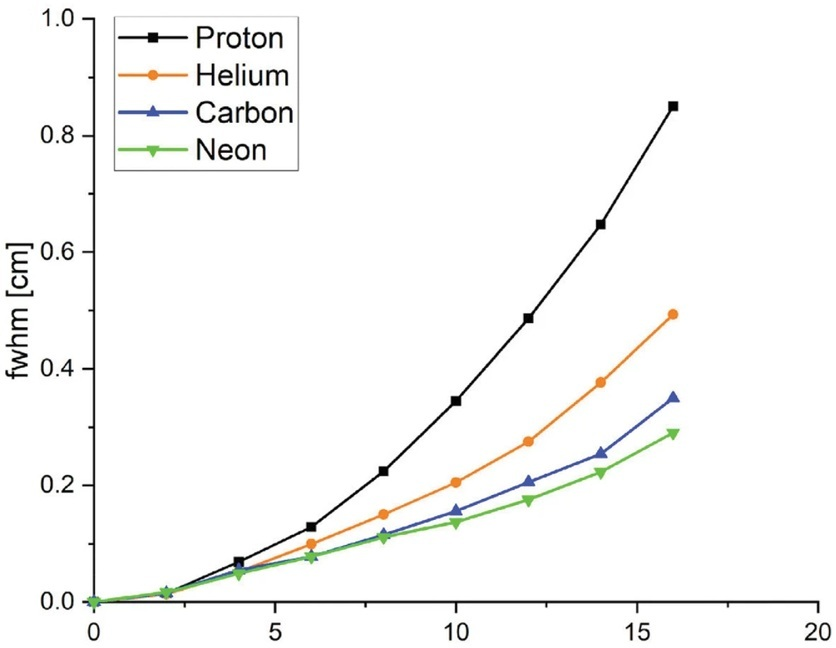
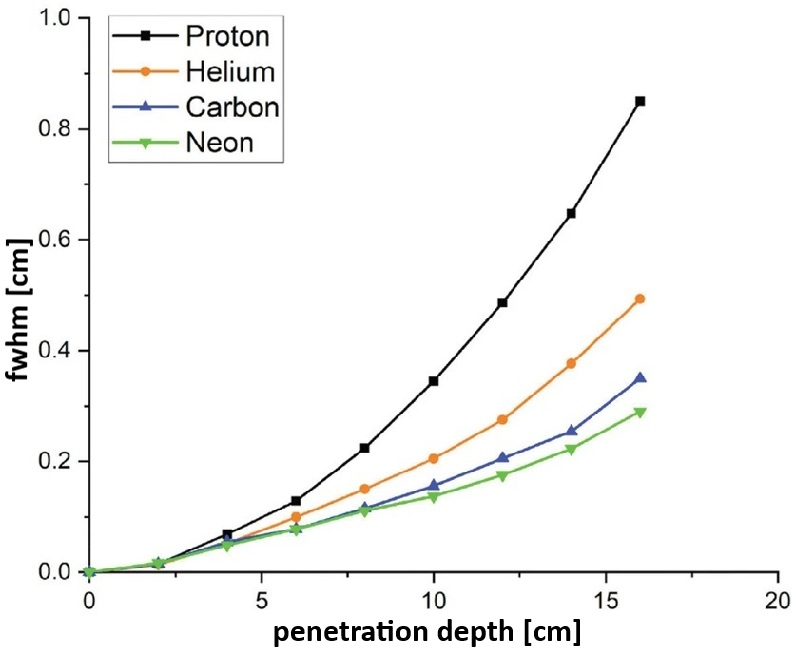
Update after Roberto Spighi revision

diff --git a/Dissertation/Chapters/Chapter 1/chapter_1.tex b/Dissertation/Chapters/Chapter 1/chapter_1.tex
@@ -1,7 +1,7 @@
 \chapter{Interactions of charged particles with matter}\label{ch:interaction_charged_particles}
 The clinical methods and the research studies developed in Particle Therapy (PT, or hadrontherapy) and Space Radiation Protection (SRP) strongly depend on deterministic codes and Monte Carlo simulations, whose aim is to emulate the physics processes characterizing such applications. To comprehensively model the phenomena underlying PT and SRP, including the biological effects produced by ionizing radiation, scientists have implemented algorithms based on the physics principles of particle interaction. Thus, the aim of this chapter is to outline the relevant interaction mechanisms between charged particles and matter, emphasizing the physics and biologic processes that dominate the PT and SRP energy ranges.
 
-Before delving into the details of charged particles interactions with matter, it is important to recall that at the energy ranges of PT ($100$--$800\,\mathrm{MeV/u}$) and of SRP ($100$--$400\,\mathrm{MeV/u}$) charged particles are moderately relativistic. Indeed, for a charged particle with kinetic energy $E_\text{kin}$, total energy $E_\text{tot}$, mass $m$ and momentum $p$, the particle velocity $\beta$ in units of light speed $c$ is given by \autoref{eq:particle_velocity}:
+Before delving into the details of charged particles interactions with matter, it is important to recall that at the energy ranges of PT ($100$--$400\,\mathrm{MeV/u}$) and of SRP ($100$--$1000\,\mathrm{MeV/u}$) charged particles are moderately relativistic. Indeed, for a charged particle with kinetic energy $E_\text{kin}$, total energy $E_\text{tot}$, mass $m$ and momentum $p$, the particle velocity $\beta$ in units of light speed $c$ is given by \autoref{eq:particle_velocity}:
 \begin{equation}
 	\beta
 	=
@@ -26,11 +26,11 @@ A charged particle can interact with matter following the electromagnetic and nu
 		\item elastic scattering with nuclei (also termed multiple Coulomb scattering, see \autoref{ssec:multiple_coulomb_scattering});
 		\item Cherenkov radiation emission and bremsstrahlung (negligible in both PT and SRP applications);
 	\end{itemize}
-	\item inelastic nuclear interactions (see \autoref{sec:nucl_interactions}).
+	\item elastic and inelastic nuclear interactions (see \autoref{sec:nucl_interactions}).
 \end{itemize}
 The inelastic collisions with atomic electrons represent the dominant interaction mechanism undergone by charged particles, as the high cross section values ($\simeq100\,\mathrm{Mb}$) show.\footnote{The barn (b) is the unit of measurement of cross section. Specifically, $1\,\mathrm{b}=10^{-24}\,\mathrm{cm}^{2}$.} Due to the large cross sections, a large number of collision occurs between the incoming charged particles and the atomic electrons, making any cross-section-based analytical treatment impractical. For this reason, an energy-based study is preferred: rather than studying whether a particle has interacted or not, scientists analyze the energy released by the particle inside the medium. These continuous electromagnetic energy losses slow down the incoming particle, which comes to rest once its kinetic energy zeroes. It should be noted that the inelastic collisions with atomic electrons make the interaction dynamics of charged particles and photons profoundly different: photons can only be absorbed when interacting with matter\footnote{To be precise, photon have also a non-zero probability to loose energy during a scattering process without necessarily being absorbed, as in Compton scattering. However, photon energy losses occur through one-shot, discrete events instead of continuous interactions.} rather than unceasingly loosing energy, as charged particles do. The very particle-photon diversity produces longitudinal energy deposition profiles, whose dissimilarities truly embody the contrast between PT and conventional photon-based radiotherapy (X-rays), as detailed in \autoref{ssec:range}.
 
-Contrary to the inelastic collisions with atomic electrons, the nuclear elastic scattering (which involves nuclei despite being an electromagnetic process) does not lead to significant energy losses, as the nuclei involved in elastic collisions usually have comparable masses to those of the incident particles. This implies that the elastic nuclear interactions transfer less energy compared to the collisions with atomic electrons. Nevertheless, the elastic scattering with nuclei produces electromagnetic deflections, which in PT broaden the beam lateral profile. The typical cross section of this process is approximately $\simeq1\,\mathrm{b}$, lower than the former case.
+Contrary to the inelastic collisions with atomic electrons, the elastic scatterings with nuclei do not lead to significant energy losses, as the nuclei involved in elastic collisions usually have comparable masses to those of the incident particles. This implies that the elastic nuclear interactions transfer less energy compared to the collisions with atomic electrons. Nevertheless, the elastic scattering with nuclei produces electromagnetic deflections, which in PT broaden the beam lateral profile. The typical cross section of this process is approximately $\simeq1\,\mathrm{b}$, lower than the former case.
 
 Inelastic nuclear reactions (which include nuclear fragmentations) affect both the longitudinal and transverse profiles of the energy deposition, due to the fact that these processes lead to beam reductions and subsequent creation of secondary particles. Nuclear interactions are less probable than the aforementioned electromagnetic collisions, as the former are characterized by cross sections of $\simeq10$--$100\,\mathrm{mb}$. Such large discrepancy in cross section values stems from the fact that the atomic radius is $10^4$ times larger than the nucleus radius.
 \section{Electromagnetic interactions}\label{sec:em_interactions}
@@ -117,7 +117,7 @@ Note that the Bethe-Bloch formula in \autoref{eq:bethe_bloch} also includes the 
 \begin{figure}[H]
 	\centering
 	\includegraphics[width=0.7\linewidth]{mass_stopping_power.pdf}
-	\caption[Bethe-Bloch curve in different materials]{Mass stopping power in various materials. Radiative effects (relevant for muons and pions) are not included. From \cite{passageParticleMatter}.}
+	\caption[Bethe-Bloch curve in different materials]{Mass stopping power in various materials of a proton particle. Radiative effects (relevant for muons and pions) are not included. From \cite{passageParticleMatter}.}
 	\label{fig:mass_stopping_power}
 \end{figure}
 \begin{figure}[H]
@@ -134,23 +134,23 @@ The Bethe-Bloch formula describes the average energy loss per path length. The n
 \end{equation}
 The randomness of the Bethe-Bloch derives from two fluctuations: the first is related to the energy variations in the amount $\delta E_n$ transferred in each ionization process, while the second is connected to the effective total number $N$ of excitation/ionization processes (dependent on Poisson statistics). The Bethe-Bloch formula provides the mean value of these energy losses, however their statistical nature allows for a more detailed description through probability distributions. In general, the fluctuations in the energy loss lead to asymmetric distributions with a Gaussian component, which models the many ionizations with tiny energy transfers, and a tail, located at larger energy loss values. The Gaussian component and the tail are visible in \autoref{fig:asymmetric_dist}. The heavy tail of \autoref{fig:asymmetric_dist} is generated by rare high-ionization events (especially central/hard collisions) where charged particle transfer a large amount of energy, inducing the formation of $\delta$ electrons that further ionize the medium. As shown in \autoref{fig:asymmetric_dist}, the skewness of the distribution allows to distinguish the most probable value of the energy loss (indicated as $\Delta_p$ in the following), corresponding to the maximum of the distribution, and the average energy loss $\left\langle dE/dx \right\rangle$, which is effectively the value estimated by \autoref{eq:bethe_bloch}. 
 
-The exact form of the energy loss distribution depend on \autoref{eq:bethe_bloch}, \autoref{eq:t_max} and mainly on the absorber medium thickness. For example, if the particles were to pass through thin layers of low-density materials, the fluctuations in energy loss per unit length would be well described by a Landau distribution:
+The exact form of the energy loss distribution depends on \autoref{eq:bethe_bloch}, \autoref{eq:t_max} and mainly on the absorber medium thickness. For example, if the particles were to pass through thin layers of low-density materials, the fluctuations in energy loss per unit length would be well described by a Landau distribution:
 \begin{equation}
 	f(\Delta E,\rho x)d\,\Delta E =
 	\frac{1}{\langle\Delta E\rangle}\,\phi_L(\lambda_L)\,d\lambda_L,
 	\label{eq:landau_dist}
 \end{equation}
-whereas for thick layers of high-density matter the distribution would be substantially Gaussian due to the larger number of collisions (that allow the application of the central limit theorem):
+where $\rho$ and $x$ are respectively the mass density and the thickness of the absorber medium, the $\phi_L(\lambda_L)$ function and the $\lambda_L$ parameter are further contributions calculated by Landau in \cite{NAP20066} and the $\langle\Delta E\rangle$ is the approximate mean energy loss. Conversely, for thick layers of high-density matter, the energy loss distribution would be substantially Gaussian due to the larger number of collisions (allowing the application of the central limit theorem):
 \begin{equation}
 	f(\Delta E) =
 	\frac{1}{\sigma_{\Delta E}\sqrt{2\pi}}
 	\exp\left(
 	-\frac{(\Delta E-\overline{\Delta E})^2}
 	{2\sigma_{\Delta E}^2}
-	\right).
+	\right),
 	\label{eq:gaussian_dist}
 \end{equation}
-In \autoref{eq:landau_dist} and \autoref{eq:gaussian_dist}, $f(\Delta E,\rho x)$ and $f(\Delta E)$ represent the probability density functions of the Landau and Gaussian distributions, respectively. In \autoref{eq:landau_dist}, $\rho$ and $x$ are respectively the mass density and the thickness of the absorber medium, while the $\phi_L(\lambda_L)$ function and the $\lambda_L$ parameter are further contributions calculated by Landau in \cite{NAP20066}. $\langle\Delta E\rangle$ and $\overline{\Delta E}$ are respectively the approximate mean energy loss and the Gaussian mean energy loss, while $\sigma_{\Delta E}$ is the Gaussian distribution standard deviation. A more comprehensive mathematical theory able to describe the distribution of energy losses in detail was given by Vavilov in \cite{Vavilov:1957zz}.
+where $\overline{\Delta E}$ and $\sigma_{\Delta E}$ are respectively the Gaussian mean energy loss and standard deviation. Clearly, in \autoref{eq:landau_dist} and \autoref{eq:gaussian_dist}, $f(\Delta E,\rho x)$ and $f(\Delta E)$ represent the probability density functions of the Landau and Gaussian distributions, respectively. A more comprehensive mathematical theory able to describe the distribution of energy losses in detail was given by Vavilov in \cite{Vavilov:1957zz}.
 \begin{figure}[H]
 	\centering
 	\includegraphics[width=0.7\linewidth]{asymmetric_dist.pdf}
@@ -333,14 +333,14 @@ Limiting the range straggling connected to the energy fluctuations described in 
 	\label{fig:range_uncertainty_solution}
 \end{figure}
 \subsection{Multiple Coulomb scattering}\label{ssec:multiple_coulomb_scattering}
-In addition to the inelastic collisions with atomic electrons discussed in \autoref{ssec:bethe_bloch}, charged particles interact electromagnetically with the medium nuclei via Multiple Coulomb Scattering (MCS). As mentioned in the introduction to \autoref{ch:interaction_charged_particles}, the nuclear energy losses of MCS are negligible compared to the ones induced by electrons, due to the comparability between the masses of incoming charged particles and target nuclei. The dominance of electron energy losses over nuclear ones is clearly visible in \autoref{fig:nuclear_energy_losses}.
+In addition to the inelastic collisions with atomic electrons discussed in \autoref{ssec:bethe_bloch}, charged particles interact electromagnetically with the medium nuclei via Multiple Coulomb Scattering (MCS). As mentioned in the introduction to \autoref{ch:interaction_charged_particles}, the energy losses in the interactions with nuclei are negligible compared to the ones induced by electrons, due to the comparability between the masses of incoming charged particles and target nuclei. The dominance of electron energy losses over nuclear ones is clearly visible in \autoref{fig:nuclear_energy_losses}.
 \begin{figure}[H]
 	\centering
 	\includegraphics[width=0.7\linewidth]{nuclear_energy_losses.pdf}
 	\caption[Electronic and nuclear $dE/dx$ for \ce{^{12}C} and protons]{Specific energy loss $dE/dx$ of \ce{^{12}C} ions and protons in water. The nuclear energy losses are drawn with a red dashed line. Furthermore, the range of \ce{^{12}C} ions in water corresponding to their specific energy is indicated at the top. From \cite{RevModPhys.82.383}.}
 	\label{fig:nuclear_energy_losses}
 \end{figure}
-The marginal energy transfers to nuclei make the MCS an elastic electromagnetic process, which can be described by the typical Rutherford cross section $d\sigma/d\Omega\propto1/\sin\left({\theta/2}\right)$, given the scattering angle $\theta$. However, the Rutherford formula models the Coulomb scattering off a single nucleus, whereas the MCS can be regarded as a combination of many Rutherford scatterings. This idea was further developed in the Molière theory \cite{passageParticleMatter}, which firstly introduced a detailed description of the MCS, further expanded in \cite{RevModPhys.35.231,RevModPhys.36.881,PhysRevD.20.1584}. Through the Molière theory, it is possible to study MCS more quantitatively through the displacement distribution, which allows to estimate the particle scattering angles produced by MCS deflections. Supposing that an incoming charged particle traverses a thick medium and that the number of nuclear scatterings is very large, the distribution of scattering angles predicted by the Molière theory can be well approximated by a Gaussian distribution (this follows from the application of the central limit theorem). Clearly, the theory of Molière is more complete than the Gaussian approach, allowing to model the rare large-angle scatterings generated by hard collisions that lead to non-Gaussian tails. For the scope of this thesis, the Gaussian approach is presented.
+The marginal energy transfers to nuclei make the MCS an elastic electromagnetic process, which can be described by the typical Rutherford cross section $d\sigma/d\Omega\propto1/\sin^4{\left(\theta/2\right)}$, given the scattering angle $\theta$. However, the Rutherford formula models the Coulomb scattering off a single nucleus, whereas the MCS can be regarded as a combination of many Rutherford scatterings. This idea was further developed in the Molière theory \cite{passageParticleMatter}, which firstly introduced a detailed description of the MCS, further expanded in \cite{RevModPhys.35.231,RevModPhys.36.881,PhysRevD.20.1584}. Through the Molière theory, it is possible to study MCS more quantitatively through the displacement distribution, which allows to estimate the particle scattering angles produced by MCS deflections. Supposing that an incoming charged particle traverses a thick medium and that the number of nuclear scatterings is very large, the distribution of scattering angles predicted by the Molière theory can be well approximated by a Gaussian distribution (this follows from the application of the central limit theorem). Clearly, the theory of Molière is more complete than the Gaussian approach, allowing to model the rare large-angle scatterings generated by hard collisions that lead to non-Gaussian tails. For the scope of this thesis, the Gaussian approach is presented.
 \begin{figure}[H]
 	\centering
 	\includegraphics[width=0.8\linewidth]{mcs.pdf}
@@ -391,7 +391,7 @@ meaning that carbon ion have beams $\simeq3$ times narrower than protons, as ill
 	\caption[Lateral straggling of ions]{Beam width (FWHM, i.e., Full Width at Half Maximum) for proton, helium, and carbon ion beams as a function of the penetration depth. From \cite{radiobiologyTextbook}.}
 	\label{fig:lateral_scatterings}
 \end{figure}
-In conclusion, the physics processes induced by MCS are modeled in Monte Carlo simulations based either on the Molière theory or on the more advanced Lewis theory \cite{osti_4397140}. The latter allows to predict the net displacement, the energy loss and the change of direction at the end of the particle track by simulating discrete single scatterings \cite{rangeVerification}. In addition to Monte Carlo codes, which require high computational resources and are very time consuming, scientists have developed quicker empirical parameterizations to model the large-angle tails of Molière distribution, comprehensively reviewed in \cite{BELLINZONA2015484}.
+In conclusion, the physics processes induced by MCS are modeled in Monte Carlo simulations based either on the Molière theory or on the more advanced Lewis theory \cite{osti_4397140}. The latter allows to predict the net displacement, the energy loss and the change of direction at the end of the particle track by simulating discrete single scatterings \cite{rangeVerification}. In addition to Monte Carlo codes, which require high computational resources and are very time consuming, scientists have developed quicker empirical parametrizations to model the large-angle tails of Molière distribution, comprehensively reviewed in \cite{BELLINZONA2015484}.
 \subsection{Implications of lateral straggling on particle therapy}\label{ssec:implications_PT2}
 The many small-angle deflections induced by MCS along the particle path lead to a noticeable direction change of the primary beam employed in PT. As a consequence, the irradiation beam broadens within the patient's tissues, releasing an unwanted lateral dose to healthy organs. In clinical practice, heavier ions are often employed to limit the transverse dose spread, as they suffer less from lateral straggling (see \autoref{fig:lateral_scatterings}). For instance, carbon beams show a sharper lateral penumbra compared to protons, as illustrated in \autoref{fig:lateral_penumbra}.
 \begin{figure}[H]
@@ -451,7 +451,7 @@ Many experimental and theoretical efforts have been made to correctly estimate n
 	\sigma_\text{R}=\pi R_0^2c_1(E)\left[A_\text{p}^{1/3}+A_\text{t}^{1/3}-c_2(E)\right]^2,
 	\label{eq:brad_peters}
 \end{equation}
-where $A_\text{p}$ and $A_\text{t}$ are respectively the mass numbers of projectile and target, while $R_0$, $c_1$ and $c_2$ are parametrization-specific variables depending on the projectile energy \cite{PhysRevC.11.360,BARSHAY19745}. The meaning of \autoref{eq:brad_peters} is that heavier projectiles and targets increase the nuclear cross section probability, leading to an increment of secondary particle emission. Unfortunately, \autoref{eq:brad_peters} was proved to be valid only for projectile energies $\gtrsim1.5\,\mathrm{GeV/u}$ \cite{ZarrellaPhDThesis}, well above the energy ranges of PT ($100$--$800\,\mathrm{MeV/u}$) and of SRP ($100$--$400\,\mathrm{MeV/u}$). Cross section formulae for the strong interaction at low and intermediate energies are indeed difficult to calculate, as above $1\,\mathrm{GeV}$ the Glauber approximation \cite{SHMAKOV1989125,PhysRevC.67.054607} can be exploited. Nevertheless, in \cite{articleAbuIbrahim}, another nucleus-nucleus total reaction cross section was proposed, valid between $30\,\mathrm{MeV}$ and $1\,\mathrm{GeV/u}$:
+where $A_\text{p}$ and $A_\text{t}$ are respectively the mass numbers of projectile and target, while $R_0$, $c_1$ and $c_2$ are parametrization-specific variables depending on the projectile energy \cite{PhysRevC.11.360,BARSHAY19745}. The meaning of \autoref{eq:brad_peters} is that heavier projectiles and targets increase the nuclear cross section probability, leading to an increment of secondary particle emission. Unfortunately, \autoref{eq:brad_peters} was proved to be valid only for projectile energies $\gtrsim1.5\,\mathrm{GeV/u}$ \cite{ZarrellaPhDThesis}, well above the energy ranges of PT ($100$--$400\,\mathrm{MeV/u}$) and of SRP ($100$--$1000\,\mathrm{MeV/u}$). Cross section formulae for the strong interaction at low and intermediate energies are indeed difficult to calculate, as above $1\,\mathrm{GeV}$ the Glauber approximation \cite{SHMAKOV1989125,PhysRevC.67.054607} can be exploited. Nevertheless, in \cite{articleAbuIbrahim}, another nucleus-nucleus total reaction cross section was proposed, valid between $30\,\mathrm{MeV}$ and $1\,\mathrm{GeV/u}$:
 \begin{equation}
 	\sigma_{R}=\pi C(E) \cdot \left(
 	\sqrt{\sigma_{pp}^{\text{tot}} Z_1^{2/3}
@@ -555,7 +555,7 @@ In \autoref{ssec:implications_PT} and \autoref{ssec:implications_PT2}, it was st
 	\caption[Un-normalized depth-dose profile of protons and carbons]{Comparison of dose-averaged Linear Energy Transfer (LET) between protons and carbon ions in water, simulated with Geant4. From \cite{Byun2021-rz}.}
 	\label{fig:proton_carbon_absolute}
 \end{figure}
-The concept of LET is specified in \autoref{ssec:let}, but for the moment it can be viewed simply as the analogous of the energy loss per unit path length $dE/dx$. Although the common practice in literature is to normalize different Bragg curves either to have the same area or to possess the same peak height (as shown in \autoref{fig:proton_carbon_width}), in \autoref{fig:proton_carbon_absolute} the Bragg functions are shown without normalization. This allows us to point out several features regarding the different profile distribution of protons and carbons. First, \ce{^{12}C} releases more energy than the proton along all the particles' range, an effect which is due to the quadratic dependence $Z^2$ of \autoref{eq:bethe_bloch}. Second, after the Bragg peak, carbon ions release a much larger dose than protons, visible from the heavy tail located after the distal fall-off of the Bragg region. This unique feature is valid for all the ions heavier than protons, and can be explained only through nuclear fragmentation induced by heavy ions, which not only generates target fragments (as proton-nucleus collisions), but also projectile fragments. As projectile fragments originate from the break-up of the incoming nucleus, they have an atomic number $Z$ lower than that of the fissioning nucleus, but nearly the same direction, kinetic energy per nucleon and, consequently, the same $\beta$. Hence, according to the Bethe-Bloch formula in \autoref{eq:bethe_bloch}, they dissipate a lower amount of energy per unit length compared to the primary, traversing longer distances. Similar conclusions can be drawn analyzing \autoref{eq:range_scaling_different_particles}: lower-$Z$ fragments would have a larger range than the primary particle from which they originate. Both these arguments clearly explain the downstream tail of heavy ions, visible also in \autoref{fig:proton_carbon_width} and \autoref{fig:bragg_peaks_carbon_energies} Bragg curves.
+The concept of LET is specified in \autoref{ssec:let}, but for the moment it can be viewed simply as the analogous of the energy loss per unit path length $dE/dx$. Although the common practice in literature is to normalize different Bragg curves either to have the same area or to possess the same peak height (as shown in \autoref{fig:proton_carbon_width}), in \autoref{fig:proton_carbon_absolute} the Bragg functions are shown without normalization. This allows us to point out several features regarding the different profile distribution of protons and carbons. First, \ce{^{12}C} exhibits a larger $dE/dx$ than protons along all the particles' range, due to the quadratic dependence on the projectile charge ($Z^2$) of \autoref{eq:bethe_bloch}. Second, after the Bragg peak, carbon ions release a much larger dose than protons, visible from the heavy tail located after the distal fall-off of the Bragg region. This unique feature is valid for all the ions heavier than protons, and can be explained only through nuclear fragmentation induced by heavy ions, which not only generates target fragments (as proton-nucleus collisions), but also projectile fragments. As projectile fragments originate from the break-up of the incoming nucleus, they have an atomic number $Z$ lower than that of the fissioning nucleus, but nearly the same direction, kinetic energy per nucleon and, consequently, the same $\beta$. Hence, according to the Bethe-Bloch formula in \autoref{eq:bethe_bloch}, they dissipate a lower amount of energy per unit length compared to the primary, traversing longer distances. Similar conclusions can be drawn analyzing \autoref{eq:range_scaling_different_particles}: lower-$Z$ fragments would have a larger range than the primary particle from which they originate. Both these arguments clearly explain the downstream tail of heavy ions, visible also in \autoref{fig:proton_carbon_width} and \autoref{fig:bragg_peaks_carbon_energies} Bragg curves.
 
 \autoref{fig:bragg_peaks_carbon_energies} provides further food for thought in the context of nuclear fragmentation. Indeed, as the penetration depth of carbon ions increases, the peak-to-entrance dose ratio diminishes dramatically from $\simeq7$ at $200\,\mathrm{MeV/u}$ to $3.4$ at $400\,\mathrm{MeV/u}$. This proves that the number of primary \ce{^{12}C} decreases with the range as a consequence of fragmentation. The loss of beam fluence strictly depends on the inelastic nuclear cross section in \autoref{eq:nucl_int} and varies sharply from particle to particle. For example, at the range of $16\,\mathrm{cm}$, nearly $20\%$ of $160\,\mathrm{MeV}$ protons would be lost due to nuclear reactions, whereas approximately $50\%$ of $290\,\mathrm{MeV/u}$ carbons would undergo nuclear reactions before reaching the same distance \cite{rangeVerification}. In addition to this, in \autoref{fig:bragg_peaks_carbon_energies} it is possible to observe the broadening of the Bragg peak width with the penetration depth. This effect, expected from \autoref{eq:explicit_range_error}, is caused by the range fluctuations induced by both the primary and its fragments.
 

diff --git a/Dissertation/Chapters/Chapter 2/chapter_2.tex b/Dissertation/Chapters/Chapter 2/chapter_2.tex
@@ -212,7 +212,7 @@ The tasks fulfilled by the SC include measuring the initial timestamp of the ToF
 	\label{fig:start_counter}
 \end{figure}
 \subsubsection{Beam Monitor}\label{sssec:beam_monitor}
-Following the beam direction, after the SC the primary ions cross the Beam Monitor (BM), a drift chamber filled with a gaseous mixture of $\ce{Ar}/\ce{CO2}$ at $80/20\%$, respectively, kept slightly above the atmospheric pressure. As illustrated in the technical drawing in \autoref{fig:beam_monitor} (left), the BM drift chamber is composed of $12$ groups of wire layers oriented orthogonally with respect to the beam direction, which reconstruct the beam position in both the $x$ and $y$ coordinates. The horizontal and vertical layers, independently, are staggered by half a cell to solve left-right hit ambiguities in track reconstruction, as sketched in \autoref{fig:beam_monitor2}. Additionally, as presented in \autoref{fig:beam_monitor2}, each wire layer consists of $3$ rectangular drift cells with dimension $16\times10\,\mathrm{mm}^2$. The organized network of wires (see \autoref{fig:beam_monitor} (right)) allows the BM to achieve a $\simeq90\%$ detection efficiency for a wide range of beams and energies \cite{RidolfiPhDThesis}, a good spatial resolution of $100\,\mu\mathrm{m}$ towards the BM center and an angular resolution of $2\,\mathrm{mrad}$ \cite{DONG2021164756}.
+Following the beam direction, after the SC the primary ions cross the Beam Monitor (BM), a drift chamber filled with a gaseous mixture of $\ce{Ar}/\ce{CO2}$ at $80/20\%$, respectively, kept slightly above the atmospheric pressure. As illustrated in the technical drawing in \autoref{fig:beam_monitor} (left), the BM drift chamber is composed of $12$ groups of wire layers oriented orthogonally with respect to the beam direction, which reconstruct the beam position in both the $x$ and $y$ coordinates. The horizontal and vertical layers, independently, are staggered by half a cell to solve left-right hit ambiguities in track reconstruction, as sketched in \autoref{fig:beam_monitor2}. Additionally, as presented in \autoref{fig:beam_monitor2}, each wire layer consists of $3$ rectangular drift cells with dimension $16\times10\,\mathrm{mm}^2$, with the longer side orthogonal to the beam direction. The organized network of wires (see \autoref{fig:beam_monitor} (right)) allows the BM to achieve a $\simeq90\%$ detection efficiency for a wide range of beams and energies \cite{RidolfiPhDThesis}, a good spatial resolution of $100\,\mu\mathrm{m}$ towards the BM center and an angular resolution of $2\,\mathrm{mrad}$ \cite{DONG2021164756}.
 
 Being located between the SC and the target, the BM accomplishes the crucial task of measuring the beam direction and impact position on the target after possible deflections occurred in the SC. Moreover, the gas rarefaction of the BM offers the paramount advantage of not further deviating the primary ions, ensuring precise beam position measurements without inducing additional systematic effects. The accurate spatial information provided by the BM allows to understand whether deflected tracks had previously generated fragmentation inside the SC. Thus, the BM can be also employed as a veto tool to reduce out-of-target fragmentation, as well as the pile-up ambiguities in the tracking devices beyond the target. Pile-up happens when more than one primary particle or multiple fragmentation processes are registered in the same event, representing a major concern for the analysis software performing the offline event reconstruction. This pile-up removal can be efficiently performed only if the BM is precisely aligned to the detectors located after the target.
 \begin{figure}[H]
